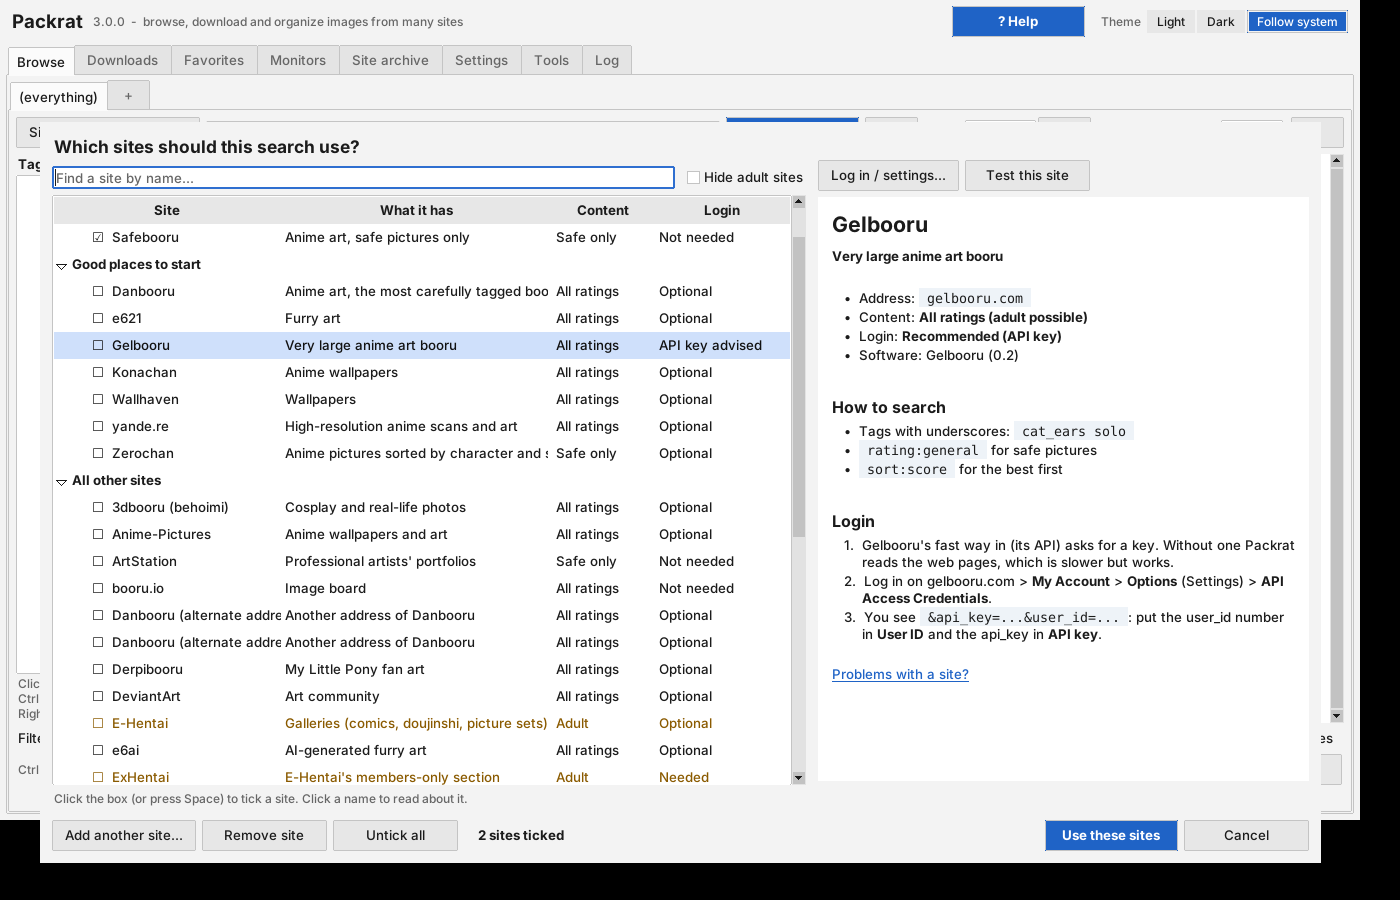
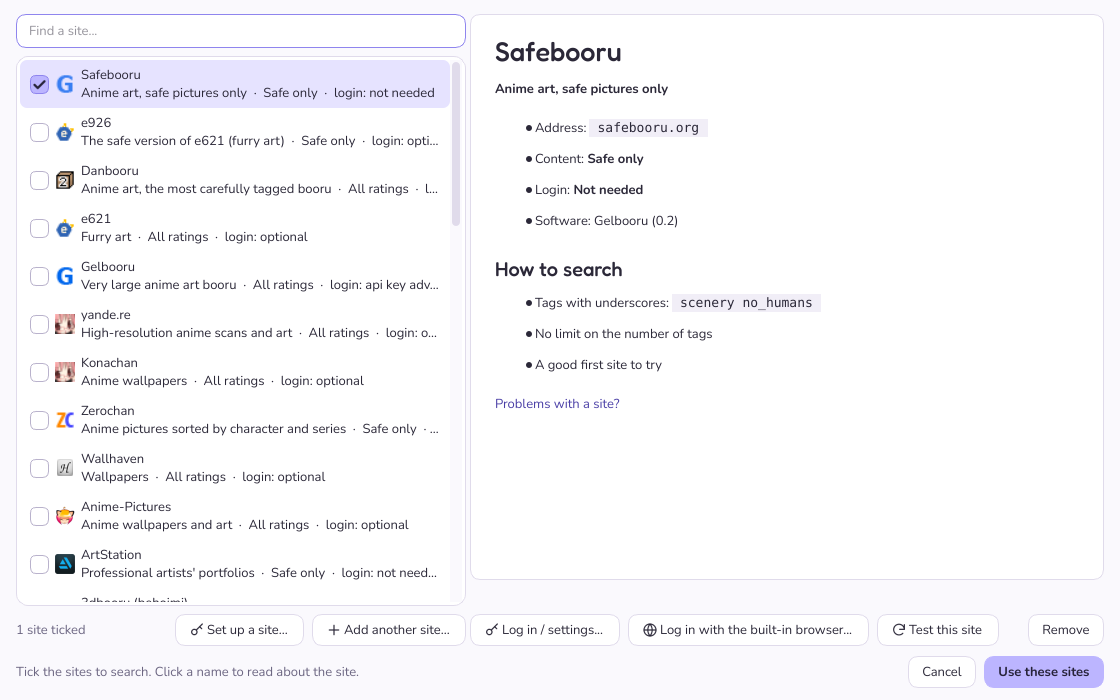
Nothing cut off in a small window; new screenshots
- common.Flow: a row of buttons that wraps onto a second line. Used for the
  toolbars of Downloads, Favorites, Monitors, Log and Site archive.
- Settings: in a narrow window a setting's name goes above its field.
- Sidebar: tighter rows and a smaller logo in a short window (under 640 px).
- Downloads: the status line wraps and the 'When finished' box can shrink,
  so Start stays inside the window.
- Site archive: the 'What to do' box can shrink next to its buttons.
- README and manual screenshots retaken with the current window.
- test for the wrapping row (130 pass)

diff --git a/app/packrat/qt/common.py b/app/packrat/qt/common.py
@@ -116,6 +116,7 @@ QFrame#sidebar QPushButton[flat="true"]:hover { background: %(hover)s; color: %(
 QFrame#card, QFrame[card="true"] { background: %(panel)s; border: 1px solid %(border)s; border-radius: 16px; }
 QToolButton#nav { background: transparent; border: none; border-radius: 13px; padding: 6px 9px; text-align: left;
     color: %(muted)s; font-size: 10.5pt; font-weight: 700; }
+QToolButton#nav[compact="true"] { padding: 3px 9px; border-radius: 11px; }
 QToolButton#nav:hover { background: %(hover)s; color: %(text)s; }
 QToolButton#nav:checked { background: %(sel)s; color: %(link)s; }
 QPushButton, QToolButton { background: %(panel)s; border: 1px solid %(border)s; border-radius: 10px; padding: 6px 13px; }
@@ -704,6 +705,104 @@ def _fill(lay, items, margins, spacing):
             lay.addLayout(it)
         elif isinstance(it, tuple):
             (lay.addLayout if isinstance(it[0], QtWidgets.QLayout) else lay.addWidget)(it[0], it[1])
+        else:
+            lay.addWidget(it)
+    return lay
+
+
+class Flow(QtWidgets.QLayout):
+    """A row of buttons that goes on to a second line when the window is too narrow for it, instead of cutting the
+    buttons off. addStretch() marks a gap: what is added after it sits at the right end of its line."""
+
+    def __init__(self, spacing: int = 6):
+        super().__init__()
+        self._items: list = []
+        self._gap: int | None = None
+        self.setContentsMargins(0, 0, 0, 0)
+        self.setSpacing(spacing)
+
+    def addItem(self, item):
+        self._items.append(item)
+
+    def addStretch(self, _factor: int = 1):
+        if self._gap is None:
+            self._gap = len(self._items)
+
+    def count(self):
+        return len(self._items)
+
+    def itemAt(self, i):
+        return self._items[i] if 0 <= i < len(self._items) else None
+
+    def takeAt(self, i):
+        if not 0 <= i < len(self._items):
+            return None
+        if self._gap is not None and i < self._gap:
+            self._gap -= 1
+        return self._items.pop(i)
+
+    def expandingDirections(self):
+        return Qt.Orientation(0)
+
+    def hasHeightForWidth(self):
+        return True
+
+    def heightForWidth(self, width):
+        return self._place(QtCore.QRect(0, 0, width, 0), False)
+
+    def setGeometry(self, rect):
+        super().setGeometry(rect)
+        self._place(rect, True)
+
+    def sizeHint(self):          # everything on one line
+        shown = [it.sizeHint() for it in self._items if not it.isEmpty()]
+        m = self.contentsMargins()
+        return QtCore.QSize(sum(s.width() for s in shown) + self.spacing() * max(0, len(shown) - 1) + m.left() + m.right(),
+                            max((s.height() for s in shown), default=0) + m.top() + m.bottom())
+
+    def minimumSize(self):       # the widest single button
+        shown = [it.sizeHint() for it in self._items if not it.isEmpty()]
+        m = self.contentsMargins()
+        return QtCore.QSize(max((s.width() for s in shown), default=0) + m.left() + m.right(),
+                            max((s.height() for s in shown), default=0) + m.top() + m.bottom())
+
+    def _place(self, rect, move: bool) -> int:
+        m, sp = self.contentsMargins(), self.spacing()
+        width = rect.width() - m.left() - m.right()
+        lines, cur, used = [], [], 0
+        for i, it in enumerate(self._items):
+            if it.isEmpty():         # a hidden button takes no room
+                continue
+            w = min(it.sizeHint().width(), max(width, 1))
+            if cur and used + sp + w > width:
+                lines.append(cur)
+                cur, used = [], 0
+            used += (sp if cur else 0) + w
+            cur.append((i, it, w))
+        if cur:
+            lines.append(cur)
+        y = rect.y() + m.top()
+        for line in lines:
+            h = max(it.sizeHint().height() for _i, it, _w in line)
+            free = max(0, width - sum(w for _i, _it, w in line) - sp * (len(line) - 1))
+            x = rect.x() + m.left()
+            for i, it, w in line:
+                if free and self._gap is not None and i >= self._gap:
+                    x, free = x + free, 0
+                if move:
+                    ih = it.sizeHint().height()
+                    it.setGeometry(QtCore.QRect(x, y + (h - ih) // 2, w, ih))
+                x += w + sp
+            y += h + sp
+        return y - (sp if lines else 0) - rect.y() + m.bottom()
+
+
+def flow(*items, spacing: int = 6) -> Flow:
+    """Like hbox, for a row of buttons that may wrap. None is the gap (see Flow)."""
+    lay = Flow(spacing)
+    for it in items:
+        if it is None:
+            lay.addStretch()
         else:
             lay.addWidget(it)
     return lay

diff --git a/app/packrat/qt/settings.py b/app/packrat/qt/settings.py
@@ -107,6 +107,8 @@ class SettingsPage(QtWidgets.QWidget):
         super().__init__()
         self.app, self.st = app, app.st
         self.setProperty("hue", K.PAGE_HUE["settings"])
+        self._narrow = False
+        self._forms, self._titles, self._spacers = [], [], []     # of the page that is shown; see _set_narrow
         self.pending: dict = {}
         self.timer = QtCore.QTimer(self, singleShot=True, interval=500, timeout=self._flush)
         self.find = QtWidgets.QLineEdit()
@@ -196,6 +198,7 @@ class SettingsPage(QtWidgets.QWidget):
         body = QtWidgets.QVBoxLayout()
         body.setContentsMargins(0, 4, 12, 12)
         body.setSpacing(14)
+        self._forms, self._titles, self._spacers = [], [], []
         groups: dict[str, QtWidgets.QFormLayout] = {}
         for s in rows:
             gname = f"{s.page}  >  {s.group}" if with_page else s.group
@@ -208,6 +211,7 @@ class SettingsPage(QtWidgets.QWidget):
                 form.setLabelAlignment(Qt.AlignmentFlag.AlignRight | Qt.AlignmentFlag.AlignVCenter)
                 form.setFieldGrowthPolicy(QtWidgets.QFormLayout.FieldGrowthPolicy.ExpandingFieldsGrow)
                 groups[gname] = form
+                self._forms.append(form)
                 body.addWidget(box)
             w = self._field(s)
             if w is None:
@@ -217,6 +221,7 @@ class SettingsPage(QtWidgets.QWidget):
             if s.kind == "bool":
                 sp = QtWidgets.QLabel("")
                 sp.setMinimumWidth(190)
+                self._spacers.append(sp)
                 form.addRow(sp, w)
             else:
                 lab = QtWidgets.QLabel(s.label)
@@ -224,19 +229,45 @@ class SettingsPage(QtWidgets.QWidget):
                 lab.setMinimumWidth(190)
                 lab.setWordWrap(True)
                 lab.setAlignment(Qt.AlignmentFlag.AlignRight | Qt.AlignmentFlag.AlignVCenter)
+                self._titles.append(lab)
                 form.addRow(lab, w)
             if basics and s.help:
                 hl = K.label(s.help, muted=True, wrap=True)
                 hl.setSizePolicy(QtWidgets.QSizePolicy.Policy.Expanding, QtWidgets.QSizePolicy.Policy.Preferred)
                 hl.setMinimumWidth(240)
-                form.addRow(" ", hl)
+                sp = QtWidgets.QLabel(" ")
+                self._spacers.append(sp)
+                form.addRow(sp, hl)
         if not rows:
             body.addWidget(K.label("Nothing found.", muted=True))
         body.addStretch(1)
         holder = QtWidgets.QWidget()
         holder.setLayout(body)
         holder.setMaximumWidth(K.FORM_MAX_WIDTH)   # a 2000 px wide text box is hard to read
+        self._set_narrow(self._narrow)
         self.scroll.setWidget(holder)
+
+    def _set_narrow(self, narrow: bool):
+        """In a narrow window a setting's name goes above its field instead of beside it, so the field is not cut
+        off at the right."""
+        self._narrow = narrow
+        self.list.setFixedWidth(150 if narrow else 200)
+        wrap = QtWidgets.QFormLayout.RowWrapPolicy
+        side = Qt.AlignmentFlag.AlignLeft if narrow else Qt.AlignmentFlag.AlignRight
+        for form in self._forms:
+            form.setRowWrapPolicy(wrap.WrapAllRows if narrow else wrap.DontWrapRows)
+        for lab in self._titles:
+            lab.setMinimumWidth(0 if narrow else 190)
+            lab.setWordWrap(not narrow)     # above its field a name has the whole line to itself
+            lab.setAlignment(side | Qt.AlignmentFlag.AlignVCenter)
+        for sp in self._spacers:        # empty cells that only line the two columns up
+            sp.setVisible(not narrow)
+
+    def resizeEvent(self, e):
+        super().resizeEvent(e)
+        narrow = self.width() < 800
+        if narrow != self._narrow:
+            self._set_narrow(narrow)
 
     def _changed(self, key, value):
         self.pending[key] = value

diff --git a/app/packrat/qt/archive.py b/app/packrat/qt/archive.py
@@ -45,7 +45,10 @@ class ArchivePage(QtWidgets.QWidget):
         cur = self.state.get("mode") or cp.DEFAULT_MODE
         self.mode.setCurrentIndex(max(0, [m.key for m in cp.MODES].index(cur) if cur in cp.MODE else 0))
         self.mode.currentIndexChanged.connect(lambda *_: self._changed())
-        self.mode.setMinimumWidth(380)
+        self.mode.setSizeAdjustPolicy(QtWidgets.QComboBox.SizeAdjustPolicy.AdjustToMinimumContentsLengthWithIcon)
+        self.mode.setMinimumContentsLength(22)     # room for the buttons next to it in a narrow window
+        self.mode.setMaximumWidth(460)
+        self.mode.view().setMinimumWidth(380)
         self.mode_help = K.label("", muted=True, wrap=True)
         self.start_btn = K.button("Start", self.start, accent=True, ico="play")
         self.start_btn.setMinimumWidth(120)
@@ -54,7 +57,7 @@ class ArchivePage(QtWidgets.QWidget):
         head = K.page_head("archive", "box", "Site archive",
                            "A complete copy of e6ai or e621: every post, file and its details, checked file by file. It can "
                            "take days and hundreds of GB; stop whenever you like, Start continues.")
-        top = K.hbox(K.label("What to do"), self.mode, None, self.pause_btn, self.stop_btn, self.start_btn)
+        top = K.hbox(K.label("What to do"), (self.mode, 20), None, self.pause_btn, self.stop_btn, self.start_btn)
 
         self.tabs = QtWidgets.QTabWidget()
         for tab in cp.TABS:
@@ -75,14 +78,14 @@ class ArchivePage(QtWidgets.QWidget):
         f = QtGui.QFontDatabase.systemFont(QtGui.QFontDatabase.SystemFont.FixedFont)
         f.setPointSize(9)
         self.logview.setFont(f)
-        tools = K.hbox(K.button("Open the archive folder", self.open_folder, ico="folder"),
+        tools = K.flow(K.button("Open the archive folder", self.open_folder, ico="folder"),
                        K.button("Open the report", self.open_report, tip="The completeness report, after a 'report' or full run"),
                        K.button("Copy the command", self.copy_command, tip="The command line that Start runs, for a console "
                                                                            "or Task Scheduler"),
                        K.button("Import settings from an older copy...", self.import_previous,
                                 tip="Use the settings and the archive folder of an e6ai Archiver / older Packrat folder. "
                                     "Nothing there is changed or moved, and nothing is downloaded again."),
-                       K.button("Help", lambda: app.open_help("archive"), ico="help"), None)
+                       K.button("Help", lambda: app.open_help("archive"), ico="help"))
         prog = K.widget(K.vbox(self.phase, self.bar, K.hbox(self.overall, None, self.speed), self.file, self.counts,
                                margins=(14, 12, 14, 12), spacing=5), "card")
         run_tab = K.widget(K.vbox(prog, (self.logview, 1), margins=(0, 10, 0, 0), spacing=10))

diff --git a/app/packrat/qt/app.py b/app/packrat/qt/app.py
@@ -75,12 +75,14 @@ class MainWindow(QtWidgets.QMainWindow):
         self.setMinimumSize(860, 520)
 
         # ---- sidebar -----------------------------------------------------------------------------
-        logo = QtWidgets.QLabel()
+        self._compact = None          # a short window gets a tighter sidebar (resizeEvent)
+        self.logo = logo = QtWidgets.QLabel()
         logo.setPixmap(K.app_icon().pixmap(38, 38))
         name = K.label("Packrat", role="wordmark")
         self.nav: dict[str, QtWidgets.QToolButton] = {}
         group = QtWidgets.QButtonGroup(self)
-        side = K.vbox(K.hbox(logo, name, None, margins=(6, 4, 6, 14), spacing=10), margins=(10, 14, 10, 10), spacing=4)
+        self.side_head = K.hbox(logo, name, None, margins=(6, 4, 6, 14), spacing=10)
+        self.side = side = K.vbox(self.side_head, margins=(10, 14, 10, 10), spacing=4)
         for key, text, ico in NAV:
             b = QtWidgets.QToolButton()
             b.setObjectName("nav")
@@ -185,11 +187,28 @@ class MainWindow(QtWidgets.QMainWindow):
         return guides.TAB_TOPIC.get(self.current_page(), "start")
 
     def _restyle_nav(self) -> None:
+        size = 22 if self._compact else 28
         for b in self.nav.values():
             b.setIcon(K.nav_icon(b.property("navico"), b.property("hue")))
-            b.setIconSize(QtCore.QSize(28, 28))
+            b.setIconSize(QtCore.QSize(size, size))
         self.theme_btn.setProperty("ico", "sun" if K.DARK[0] else "moon")
         K.refresh_icons(self)
+
+    def resizeEvent(self, e):
+        """A short window (a small laptop, half a screen): tighten the sidebar so all of it still fits."""
+        super().resizeEvent(e)
+        compact = self.height() < 640
+        if compact == self._compact:
+            return
+        self._compact = compact
+        self.logo.setPixmap(K.app_icon().pixmap(*((30, 30) if compact else (38, 38))))
+        self.side_head.setContentsMargins(6, 0 if compact else 4, 6, 6 if compact else 14)
+        self.side.setContentsMargins(10, 8 if compact else 14, 10, 6 if compact else 10)
+        self.side.setSpacing(1 if compact else 4)
+        size = 22 if compact else 28
+        for b in self.nav.values():
+            b.setIconSize(QtCore.QSize(size, size))
+            K.restyle(b, compact=compact)
 
     def toggle_theme(self) -> None:
         self.set_theme("light" if K.DARK[0] else "dark")

diff --git a/app/packrat/qt/pages.py b/app/packrat/qt/pages.py
@@ -28,7 +28,7 @@ class Page(QtWidgets.QWidget):
         super().__init__()
         self.app = app
         self.setProperty("hue", K.PAGE_HUE.get(self.KEY, "lilac"))
-        self.bar = K.hbox(spacing=6)
+        self.bar = K.Flow(spacing=6)      # wraps in a narrow window
         self.body = K.vbox(spacing=8)
         head = K.page_head(self.KEY, self.ICO, title, intro)
         self.setLayout(K.vbox(head, self.bar, (self.body, 1), margins=(22, 18, 22, 14), spacing=12))
@@ -87,7 +87,7 @@ class DownloadsPage(Page):
                                          "In Browse, search for something, then use <b>Download all results</b>, "
                                          "<b>Download this page</b> or <b>Download selected</b>.<br>They appear here; "
                                          "press Start to download them."), 1)
-        self.phase = K.label("Press Start to download everything in the list.", role="heading")
+        self.phase = K.label("Press Start to download everything in the list.", role="heading", wrap=True)
         self.statline = K.label("", muted=True)
         self.curfile = K.label("", muted=True)
         self.curfile.setSizePolicy(QtWidgets.QSizePolicy.Policy.Ignored, QtWidgets.QSizePolicy.Policy.Preferred)
@@ -99,8 +99,11 @@ class DownloadsPage(Page):
         self.pause_btn = K.button("Pause", self.pause, ico="pause")
         self.stop_btn = K.button("Stop", self.stop, ico="stop")
         self.end = QtWidgets.QComboBox()
+        self.end.setSizeAdjustPolicy(QtWidgets.QComboBox.SizeAdjustPolicy.AdjustToMinimumContentsLengthWithIcon)
+        self.end.setMinimumContentsLength(14)     # its longest choice must not push Start out of a narrow window
         for v, lab in self.END:
             self.end.addItem(lab, v)
+        self.end.view().setMinimumWidth(330)
         cur = str(app.st.get("Batch/end") or "nothing")
         self.end.setCurrentIndex(max(0, [e[0] for e in self.END].index(cur) if cur in [e[0] for e in self.END] else 0))
         self.end.currentIndexChanged.connect(lambda *_: app.st.set("Batch/end", self.end.currentData()))

diff --git a/app/tests/test_qt.py b/app/tests/test_qt.py
@@ -55,6 +55,25 @@ def test_tag_colours_follow_the_theme_unless_you_chose_your_own():
     assert K.tag_color("general", St({})) == "#000000"                                # "no colour": the text colour
 
 
+def test_a_row_of_buttons_wraps_instead_of_being_cut_off():
+    from PySide6 import QtCore, QtWidgets
+
+    from packrat.qt import common as K
+    app = QtWidgets.QApplication.instance() or QtWidgets.QApplication([])
+    buttons = [QtWidgets.QPushButton(t) for t in ("Add a search...", "Add a picture...", "Edit...", "Remove", "Open folder")]
+    row = K.flow(*buttons[:4], None, buttons[4])
+    holder = QtWidgets.QWidget()
+    holder.setLayout(row)
+    one_line = row.sizeHint().width()
+    assert row.heightForWidth(one_line) < row.heightForWidth(one_line // 2)      # narrower: more lines
+    for width in (one_line + 200, one_line // 2):
+        row.setGeometry(QtCore.QRect(0, 0, width, row.heightForWidth(width)))
+        for b in buttons:
+            assert b.geometry().right() < width and b.width() >= b.sizeHint().width()   # whole, and inside
+    assert buttons[4].geometry().right() == width - 1                              # after the gap: at the right end
+    del app
+
+
 def test_guide_markup_becomes_html():
     from packrat.qt.help import guide_html, slug
     html = guide_html("# Title\n\n## Keys here\n- **S**: save `%md5%`\n- [Browse](go:tab:browse)\n\n1. one\n   more\n2. two")

diff --git a/docs/README.md b/docs/README.md
@@ -32,8 +32,8 @@ Screenshots (in `screenshots\`): [Browse](screenshots/packrat-browse.png), [dark
 [Monitors](screenshots/packrat-monitors.png), [File names](screenshots/packrat-settings-filenames.png),
 [Tools](screenshots/packrat-tools.png), [Site archive](screenshots/packrat-site-archive.png),
 [Help](screenshots/packrat-help.png), [Help search](screenshots/packrat-help-search.png),
-[More search options](screenshots/packrat-search-options.png), [Advanced view](screenshots/packrat-browse-advanced.png),
-[First start](screenshots/packrat-first-start.png).
+[First start](screenshots/packrat-first-start.png). From the classic window (`Start Packrat (classic window).bat`):
+[More search options](screenshots/packrat-search-options.png), [Advanced view](screenshots/packrat-browse-advanced.png).
 
 Contents: [Quick start](#quick-start) - [Browse](#browse) - [Viewer](#viewer) - [Downloads](#downloads) -
 [File names](#file-names) - [Post-filters and the blacklist](#post-filters-and-the-blacklist) -

diff --git a/docs/CHANGELOG.md b/docs/CHANGELOG.md
@@ -25,6 +25,14 @@ Nothing moved and nothing works differently; every button, menu and shortcut is 
   are two rows now.
 - The Help window's topic list no longer cuts off its longest title.
 - Empty-list messages kept the old theme's grey after switching light / dark.
+- **Nothing is cut off in a small window any more**, down to the smallest size (860 x 520). Rows of buttons
+  (Downloads, Favorites, Monitors, Site archive) go on to a second line instead of losing their ends; Settings puts
+  a setting's name above its field when there is no room beside it; the sidebar tightens in a short window; the
+  Start button on Downloads and the buttons next to *What to do* on Site archive stay inside the window.
+
+### Documentation
+- The screenshots in the README and the manual show the current window. (The Site archive manual's pictures of
+  the classic control panel are unchanged: that window did not change.)
 
 ## 3.3.1 (2026-11-12) - Danbooru works again
 
